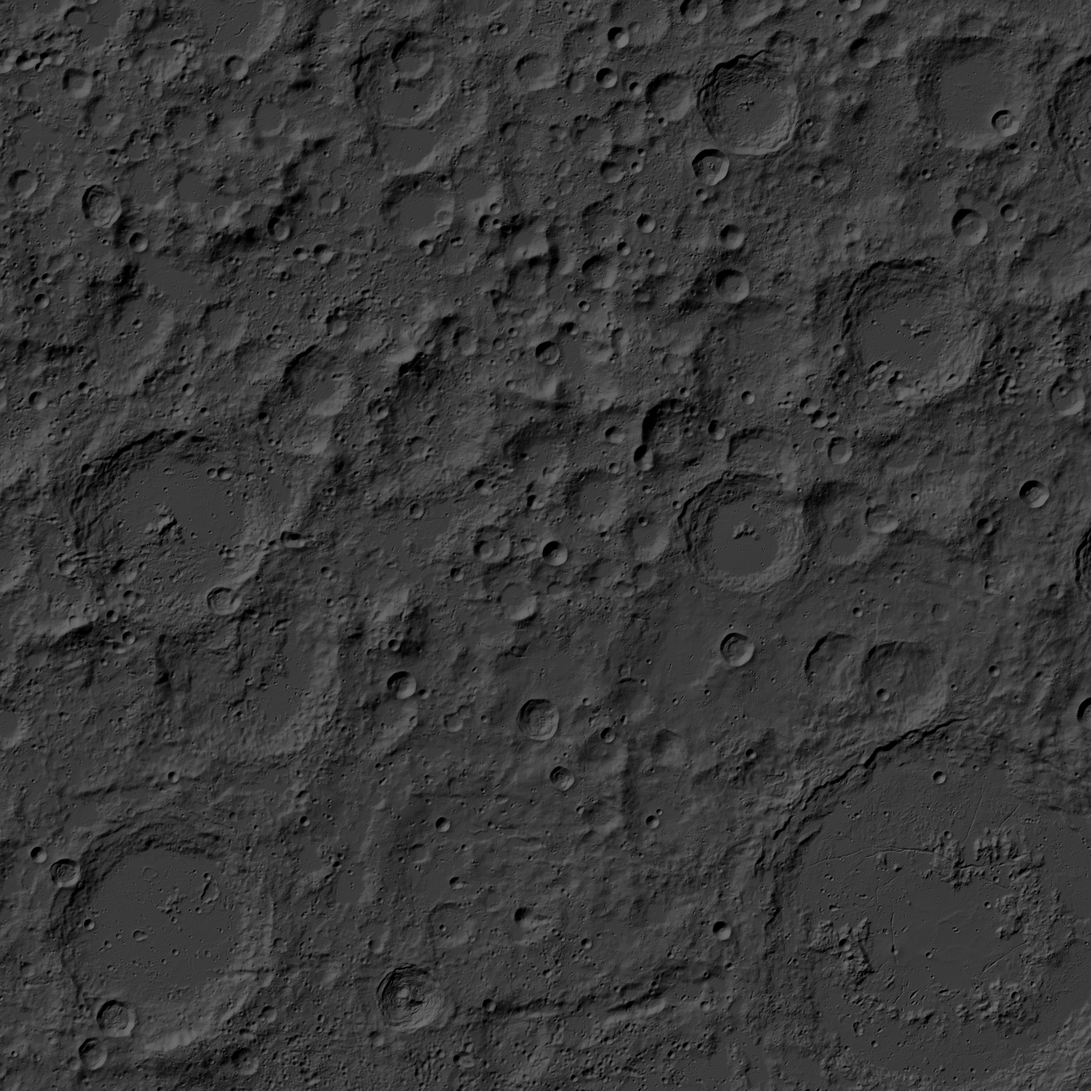
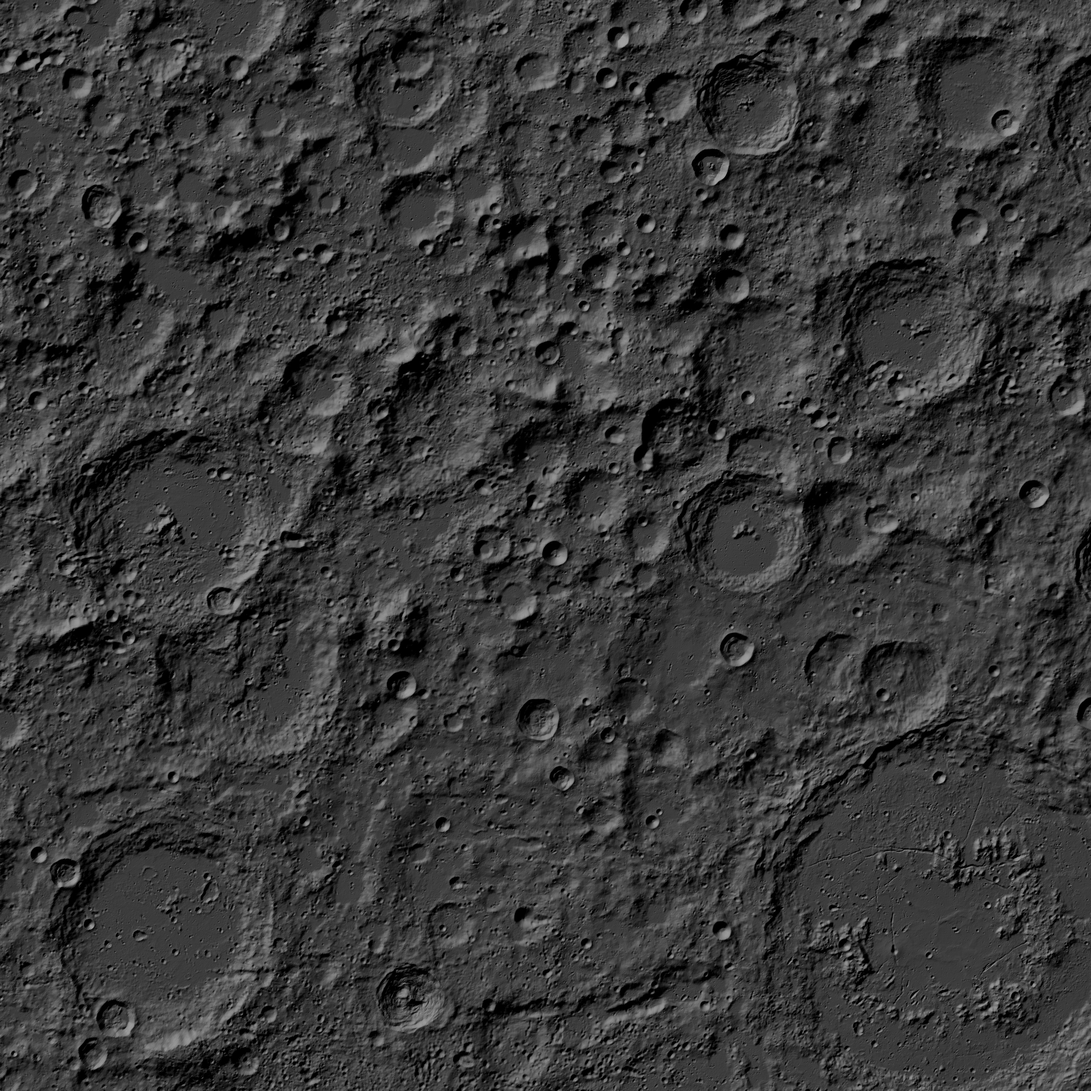
Match the two basemaps on contrast, not just brightness
The polar cap still showed its edge after the levels were matched,
because only the means were: over the band the cap replaces the
mosaic's standard deviation was 56.5/255 against the cap's 16.8, so a
flat grey disc sat on a mottled surface and the seam read wherever
they met.

Both now land near 31. The cap was given more contrast at the source,
and the mosaic keeps 0.55 of its own, pulled toward its mean in the
shader. The contrast being given up is grazing-illumination shadow in
the source imagery rather than terrain, so a site selector loses
nothing by compressing it.

diff --git a/src/scene/globe.js b/src/scene/globe.js
@@ -27,7 +27,7 @@ const START = { lat: -78, lon: 20 };
 
 export function createGlobe({ renderer, data, zones, radiusKm }) {
   const scene = new THREE.Scene();
-  const camera = new THREE.PerspectiveCamera(32, 1, CAM_NEAR, CAM_FAR);
+  const camera = new THREE.PerspectiveCamera(FOV, 1, CAM_NEAR, CAM_FAR);
 
   const loader = new THREE.TextureLoader();
   const mapTex = loader.load(data.moonGlobalUrl);
@@ -45,6 +45,12 @@ export function createGlobe({ renderer, data, zones, radiusKm }) {
 
   const uniforms = {
     uMap: { value: mapTex },
+    // Measured off src/data/moon_global.jpg: mean 78.6/255 overall, and the band the polar
+    // basemap replaces has a standard deviation of 56.5 against that basemap's 30 after the
+    // source-side change. Keeping 0.55 of the mosaic's contrast lands both near 31, which is
+    // what stops the cap edge from showing. See the note in src/glsl/globe.js.
+    uMapMean: { value: 78.6 / 255 },
+    uMapFlat: { value: 0.55 },
     uPolar: { value: polarTex },
     uPolarE: { value: data.moonPolarMeta.half_extent_m / 1000 },
     uZones: { value: zones.texture() },
@@ -121,12 +127,25 @@ export function createGlobe({ renderer, data, zones, radiusKm }) {
   }
 
   // Screen-space drag to rotation: a horizontal drag turns about the camera's up, a vertical
-  // drag about its right. Composed in camera space, so dragging always moves the point under
-  // the cursor in the direction it is dragged, wherever the globe has got to.
+  // drag about its right, both premultiplied so they act in camera space rather than in the
+  // body's own frame -- the globe spends this view over the pole, where a body-frame yaw is
+  // not the axis the screen is asking for.
+  //
+  // The angle per pixel is derived rather than tuned, so the point under the cursor actually
+  // stays under it. The near point of the sphere sits at depth (d - 1) from the eye, and a
+  // perspective camera maps h pixels to 2 (d - 1) tan(fov/2) of width at that depth, so a
+  // drag of n pixels is a rotation of n * 2 (d - 1) tan(fov/2) / h radians. Both axes use the
+  // height, which is what the projection scales by. Exact at the centre of the frame and an
+  // underestimate towards the limb, where the surface turns away from the viewer; that is
+  // the right way round, since overshoot is what reads as the globe running off on its own.
   const qTmp = new THREE.Quaternion();
   const axisY = new THREE.Vector3(0, 1, 0), axisX = new THREE.Vector3(1, 0, 0);
+  const TAN_HALF_FOV = Math.tan(THREE.MathUtils.degToRad(FOV) / 2);
   function drag(dx, dy) {
-    const k = 0.005 * (dist / DIST.start);
+    // The canvas's own CSS height, which is the space the pointer deltas are in. Read live
+    // rather than cached: no second copy of the viewport size to fall out of date.
+    const h = renderer.domElement.clientHeight || 1;
+    const k = (2 * Math.max(0, dist - R_UNIT) * TAN_HALF_FOV) / h;
     qTmp.setFromAxisAngle(axisY, dx * k);
     orient.premultiply(qTmp);
     qTmp.setFromAxisAngle(axisX, dy * k);
@@ -134,28 +153,59 @@ export function createGlobe({ renderer, data, zones, radiusKm }) {
     orient.normalize();
   }
 
+  // Pointer input. The handlers are named and held, not anonymous, because this screen is
+  // opened and closed repeatedly: attaching anonymous listeners on each open leaves the
+  // previous set installed with no way to name them again, and they accumulate. Each one
+  // then applies the same wheel step, so the zoom runs at n times speed after n opens.
+  // attach is therefore idempotent per element and hands back a detach that genuinely
+  // removes what it added.
+  let attached = null;
+  const onDown = (e) => {
+    dragging = true; dragged = false; last = { x: e.clientX, y: e.clientY }; spin = 0;
+    attached?.setPointerCapture?.(e.pointerId);
+  };
+  const onMove = (e) => {
+    if (!dragging || !last) return;
+    const dx = e.clientX - last.x, dy = e.clientY - last.y;
+    if (Math.abs(dx) + Math.abs(dy) > 2) dragged = true;
+    drag(dx, dy);
+    last = { x: e.clientX, y: e.clientY };
+  };
+  const onUp = (e) => {
+    dragging = false; last = null;
+    // Checked first: releasing a capture that is not held raises NotFoundError, and
+    // pointercancel can arrive after the browser has already dropped it.
+    if (attached?.hasPointerCapture?.(e.pointerId)) attached.releasePointerCapture(e.pointerId);
+  };
+  const onWheel = (e) => {
+    e.preventDefault();
+    dist = THREE.MathUtils.clamp(dist * Math.exp(e.deltaY * 0.0012), DIST.min, DIST.max);
+    spin = 0;
+  };
+
+  function detach() {
+    dragging = false;
+    last = null;
+    const el = attached;
+    if (!el) return;
+    attached = null;
+    el.removeEventListener('pointerdown', onDown);
+    el.removeEventListener('pointermove', onMove);
+    el.removeEventListener('pointerup', onUp);
+    el.removeEventListener('pointercancel', onUp);
+    el.removeEventListener('wheel', onWheel);
+  }
+
   function attach(el) {
-    const pos = (e) => ({ x: e.clientX, y: e.clientY });
-    el.addEventListener('pointerdown', (e) => {
-      dragging = true; dragged = false; last = pos(e); spin = 0;
-      el.setPointerCapture?.(e.pointerId);
-    });
-    el.addEventListener('pointermove', (e) => {
-      if (!dragging || !last) return;
-      const p = pos(e);
-      const dx = p.x - last.x, dy = p.y - last.y;
-      if (Math.abs(dx) + Math.abs(dy) > 2) dragged = true;
-      drag(dx, dy);
-      last = p;
-    });
-    const end = (e) => { dragging = false; last = null; el.releasePointerCapture?.(e.pointerId); };
-    el.addEventListener('pointerup', end);
-    el.addEventListener('pointercancel', end);
-    el.addEventListener('wheel', (e) => {
-      e.preventDefault();
-      dist = THREE.MathUtils.clamp(dist * Math.exp(e.deltaY * 0.0012), DIST.min, DIST.max);
-    }, { passive: false });
-    return () => { dragging = false; last = null; };
+    if (attached === el) return detach;      // already listening on this element
+    detach();                                 // moved to a different element: drop the old one
+    attached = el;
+    el.addEventListener('pointerdown', onDown);
+    el.addEventListener('pointermove', onMove);
+    el.addEventListener('pointerup', onUp);
+    el.addEventListener('pointercancel', onUp);
+    el.addEventListener('wheel', onWheel, { passive: false });
+    return detach;
   }
 
   // Which candidate marker is under a screen point, or null. Returns the nearest within a
@@ -234,7 +284,7 @@ export function createGlobe({ renderer, data, zones, radiusKm }) {
   }
 
   return {
-    scene, camera, sphere, uniforms, attach, pick, surfaceAt, screenOf, step, resize, render,
+    scene, camera, sphere, uniforms, attach, detach, pick, surfaceAt, screenOf, step, resize, render,
     siteDirs,
     get dragged() { return dragged; },
     stopSpin: () => { spin = 0; },

diff --git a/src/glsl/globe.js b/src/glsl/globe.js
@@ -24,6 +24,8 @@ void main() {
 export const globeFrag = /* glsl */ `
 precision highp float;
 uniform sampler2D uMap;        // WAC mosaic, equirectangular
+uniform float uMapMean;        // the mosaic's own mean level, the point contrast pulls toward
+uniform float uMapFlat;        // how much of the mosaic's contrast to keep, 1 for all of it
 uniform sampler2D uPolar;      // slope-shaded relief, south polar stereographic
 uniform float uPolarE;         // half extent of uPolar, km
 uniform sampler2D uZones;      // zone classes, RGBA, nearest filtered
@@ -60,6 +62,16 @@ void main() {
   float lat = (vUv.y - 0.5) * 180.0;
   float lon = vUv.x * 360.0;
   float albedo = texture(uMap, vec2(fract(vUv.x + 0.5), vUv.y)).r;
+
+  // The mosaic and the polar basemap had the same average brightness but not remotely the
+  // same local contrast -- the mosaic's standard deviation over the band the basemap
+  // replaces was 56/255 against the basemap's 17 -- so the cap read as a flat grey disc laid
+  // on a mottled surface and the seam showed wherever the two met. Matching the mean was not
+  // enough; the character had to match too. The mosaic is pulled towards its own mean here
+  // and the basemap was given more contrast at the source, so the two meet in the middle.
+  // The harsh end of that contrast is grazing-illumination shadow in the source imagery, not
+  // terrain this map needs, so compressing it costs nothing a site selector would use.
+  albedo = mix(uMapMean, albedo, uMapFlat);
 
   // Near the pole every longitude converges on one texel row of that same equirectangular
   // map, so a camera close enough to read the zone cap sees that row smeared across the

diff --git a/tools/fetch_moon_polar.py b/tools/fetch_moon_polar.py
@@ -119,7 +119,10 @@ def main():
     # band (lat -90 to -75 of src/data/moon_global.jpg) averages about 57/255, so the output
     # is centred there. Contrast is kept well below what the hillshade alone would give: this
     # sits under the live lighting pass and the zone tint, and both need headroom.
-    TARGET_MEAN, CONTRAST = 57.0 / 255.0, 0.30
+    # CONTRAST is set so this lands near the contrast the mosaic keeps after the shader
+    # compresses it (0.55 of a 56.5/255 standard deviation, so about 31/255). Matching the
+    # mean alone left the cap reading as a flat disc on a mottled surface.
+    TARGET_MEAN, CONTRAST = 57.0 / 255.0, 0.55
     s = shade ** 0.85
     s = (s - s.mean()) / max(s.std(), 1e-6)          # normalise, then place deliberately
     img = np.clip(TARGET_MEAN + s * CONTRAST * TARGET_MEAN, 0.0, 1.0) * 255
